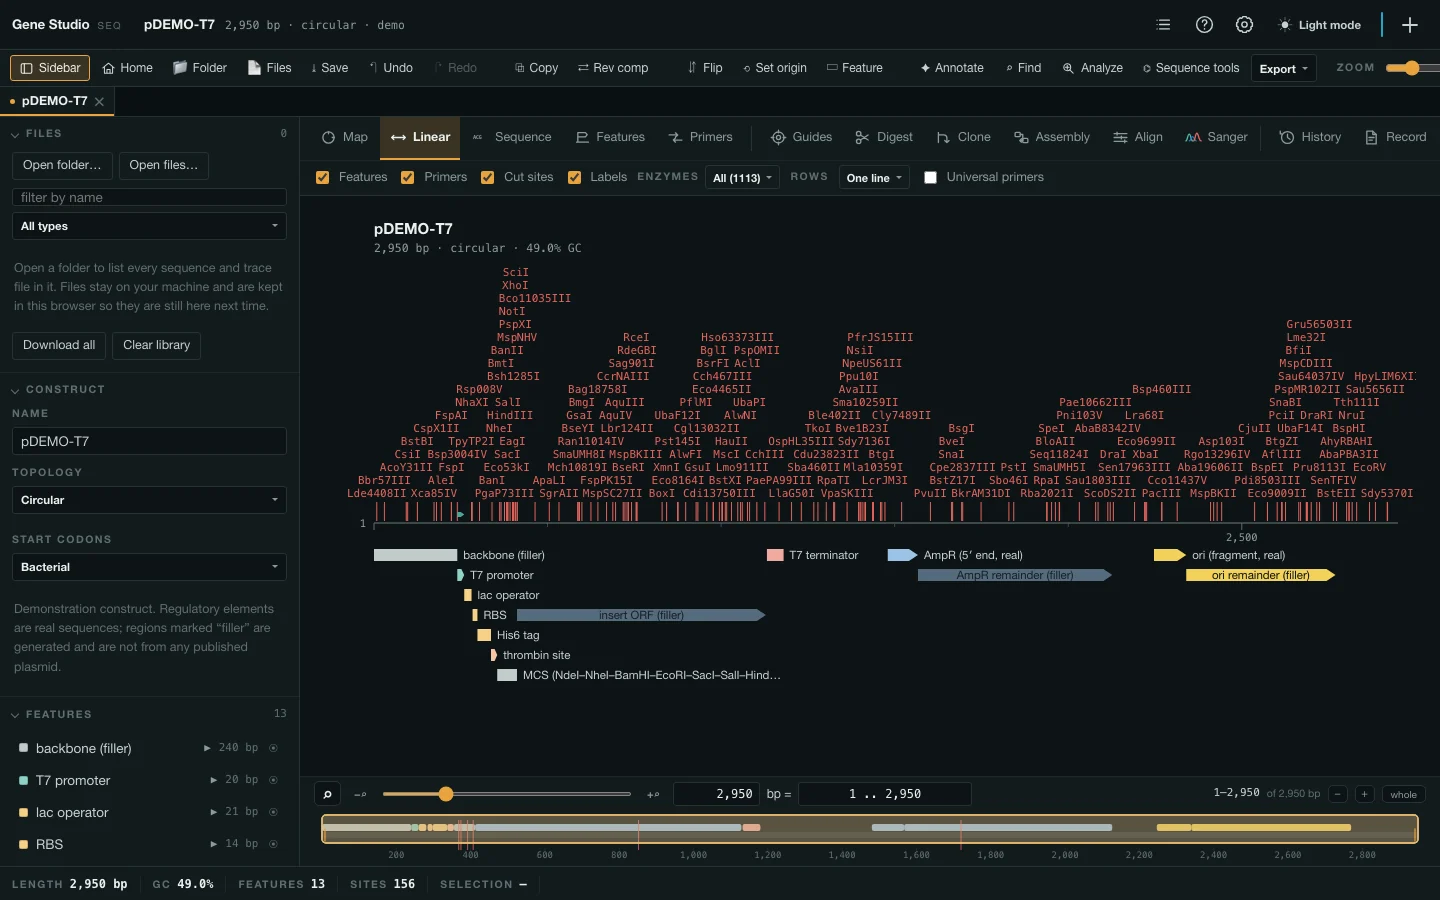
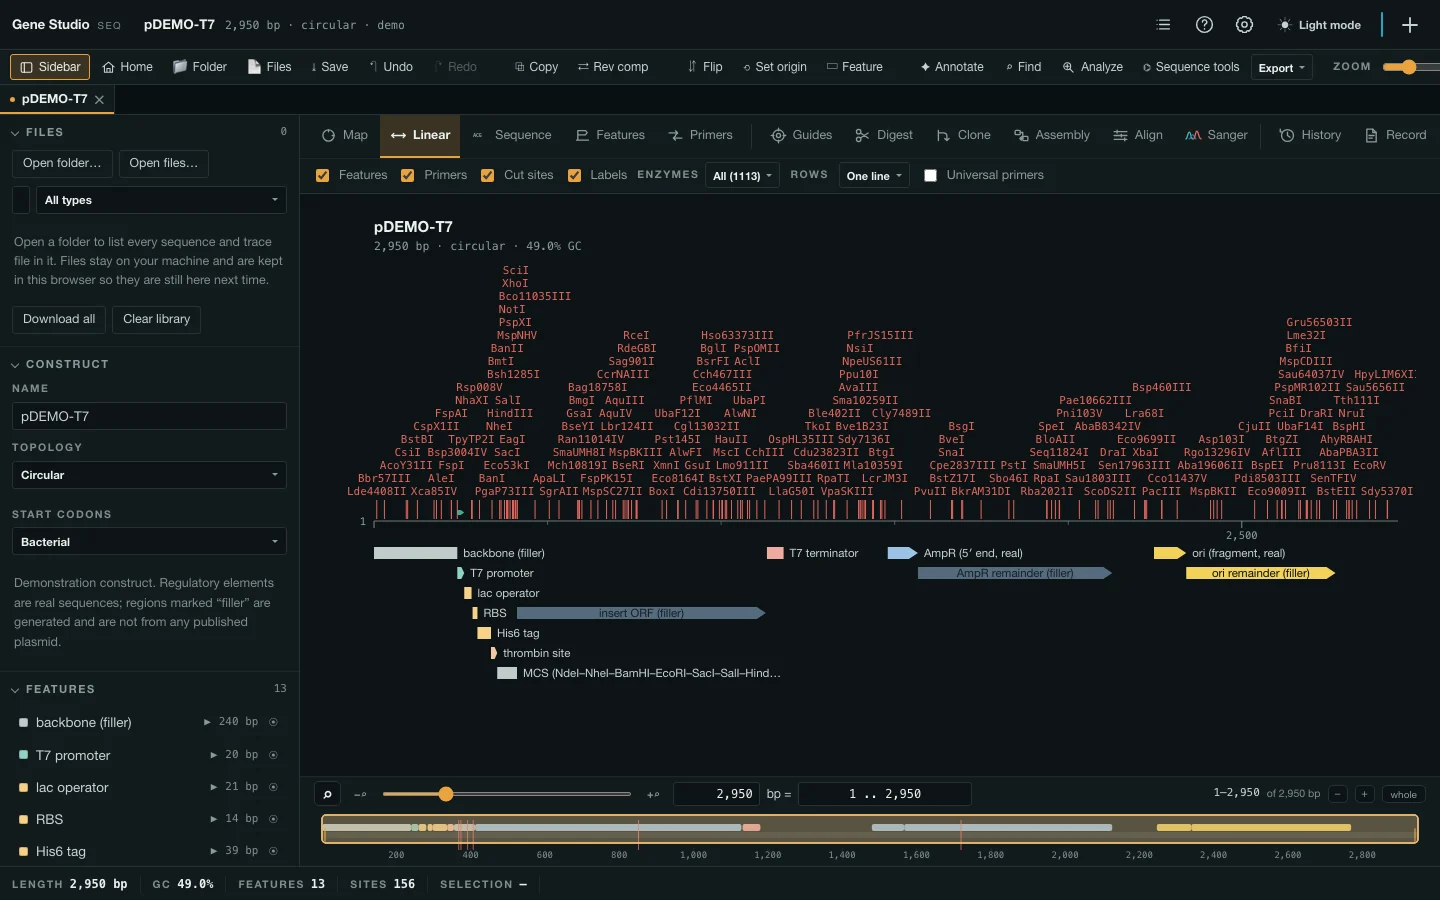
The landing page

diff --git a/docs/index.html b/docs/index.html
@@ -92,56 +92,97 @@ html.js .rise.in{opacity:1; transform:none}
 
 /* ── the strip along the top ─────────────────────────────────────────────── */
 header.rail{
-  position:sticky; top:0; z-index:40;
-  background:rgba(13,19,21,.74); backdrop-filter:blur(14px) saturate(1.4);
-  border-bottom:1px solid var(--hair);
+  /* **A bar across the top is chrome; a capsule floating on the picture is
+     part of it.** The first screen is now one field of colour, and a full-width
+     rule across it cuts that field in half before anybody has read the
+     headline. The capsule sits *on* the hero and carries the same blur, so the
+     colour runs behind it. */
+  position:fixed; top:14px; left:0; right:0; z-index:40;
+  background:none; border:0;
 }
-.rail .wrap{display:flex; align-items:center; gap:18px; height:58px}
+.rail .wrap{display:flex; align-items:center; gap:6px;
+  width:max-content; max-width:calc(100% - 24px); margin:0 auto; padding:7px 8px 7px 17px;
+  background:rgba(9,14,16,.66); backdrop-filter:blur(18px) saturate(1.5);
+  border:1px solid rgba(255,255,255,.09); border-radius:999px;
+  box-shadow:0 12px 34px rgba(0,0,0,.42);}
 .brand{display:flex; align-items:center; gap:9px; font-weight:650; color:var(--ink); text-decoration:none; letter-spacing:-.01em}
 .brand svg{flex:none}
 .brand .tag{font:500 10px/1 var(--mono); color:var(--faint); letter-spacing:.14em; padding-top:2px}
-.rail nav{margin-left:auto; display:flex; align-items:center; gap:2px}
-.rail nav a{font-size:14px; color:var(--slate); text-decoration:none; padding:7px 11px; border-radius:8px; white-space:nowrap}
-.rail nav a:hover{color:var(--ink); background:var(--hair)}
-.rail nav a.get{color:var(--ink); border:1px solid var(--line); margin-left:8px}
-.rail nav a.get:hover{border-color:var(--amber); background:transparent}
+.rail nav{margin-left:14px; display:flex; align-items:center; gap:2px}
+.rail nav a{font-size:14px; color:var(--slate); text-decoration:none; padding:8px 12px; border-radius:999px; white-space:nowrap}
+.rail nav a:hover{color:var(--ink); background:rgba(255,255,255,.07)}
+/* the one thing to press, filled rather than outlined, inside the capsule */
+.rail nav a.get{color:var(--amber-ink); background:var(--amber); border:0; margin-left:6px; font-weight:600}
+.rail nav a.get:hover{background:#f0b055; color:var(--amber-ink)}
 @media (max-width:760px){ .rail nav a.hide-s{display:none} }
 
 /* ── hero ────────────────────────────────────────────────────────────────── */
-.hero{position:relative; padding:clamp(52px,9vw,112px) 0 0; overflow:hidden}
+/* **The first screen is one field, and the words stand in the middle of it.**
+   It was a left column of type on the page's own flat ground with the product
+   nowhere in sight — measured, no pixel of the first screen differed from the
+   page fill until the light was moved onto the hero, and even then it was a
+   wash rather than a picture. The hero is a full screen of colour now, the
+   words are centred in it, and the app rises into the bottom of it.
+
+   The colour is the application's own and not a photograph: the ring's steel
+   blue, its amber and its cyan, laid as one dusk. A stock landscape would look
+   like any other product; this looks like the thing being downloaded, and it
+   costs no asset, which keeps the page one file. */
+.hero{position:relative; overflow:hidden; text-align:center;
+  padding:clamp(100px,12vh,138px) 0 0;}
 .hero::before{
-  /* **`inset:-40%` put the light above the hero.** The block is over 900 px
-     tall, so −40% lifts the whole 760 px pane clear of the headline it was lit
-     for and the top of the page rendered dead flat — measured, no pixel in the
-     first screen differed from the page's own fill. It sits on the hero now,
-     and the amber is centred on the *left* column where the words are rather
-     than at 50% of a two-column block whose right half is empty. */
-  content:''; position:absolute; inset:0 0 auto 0; height:900px; pointer-events:none;
+  content:''; position:absolute; inset:0; pointer-events:none;
   background:
-    radial-gradient(46% 40% at 26% 30%, rgba(232,163,61,.14), transparent 72%),
-    radial-gradient(44% 38% at 78% 16%, rgba(79,183,158,.11), transparent 74%);
+    radial-gradient(62% 52% at 50% 2%,  rgba(146,178,220,.46), transparent 68%),
+    radial-gradient(42% 38% at 12% 26%, rgba(232,163,61,.30),  transparent 70%),
+    radial-gradient(46% 40% at 88% 20%, rgba(79,183,158,.28),  transparent 72%),
+    radial-gradient(84% 56% at 50% 82%, rgba(46,74,102,.42),   transparent 78%),
+    linear-gradient(180deg, #1B2A34 0%, #14212A 38%, #0D171D 70%, var(--paper) 100%);
+}
+/* a vignette so the centred type is read on a settled ground rather than on
+   whichever gradient happens to be under that line */
+.hero::after{
+  content:''; position:absolute; inset:0; pointer-events:none;
+  background:radial-gradient(66% 46% at 50% 30%, rgba(6,10,12,.26), rgba(6,10,12,0) 72%);
 }
 .hero .wrap{position:relative}
 /* the name, set to be read as the name — heavier than the headline's weight
    at a fraction of its size, so it reads as a mark rather than as a first line
    of the sentence under it */
+/* **The name stays above the fold.** The capsule carries it too, at 15 px of
+   chrome — which is exactly the reading that put this here in the first place,
+   so it is kept and made the mark over the sentence rather than a line of it. */
 .wordmark{
-  margin:0 0 10px; font:700 clamp(26px,3.4vw,38px)/1 var(--ui);
-  letter-spacing:-.03em; color:var(--ink);
+  margin:0 0 14px; font:650 clamp(19px,2.2vw,23px)/1 var(--ui);
+  letter-spacing:-.01em; color:var(--slate);
 }
 .wordmark::after{
   content:''; display:inline-block; width:9px; height:9px; margin-left:9px;
   border-radius:50%; background:var(--amber); vertical-align:.06em;
 }
-.eyebrow{font:500 11.5px/1 var(--mono); letter-spacing:.16em; text-transform:uppercase; color:var(--amber); margin:0 0 20px}
-h1{font-size:clamp(36px,6.2vw,66px); font-weight:660; max-width:19ch}
-.sub{margin:22px 0 0; max-width:60ch; font-size:clamp(17px,2vw,20px)}
-.chips{display:flex; flex-wrap:wrap; gap:7px; margin:26px 0 0; padding:0; list-style:none}
+/* the eyebrow is a chip on the field rather than a line of small capitals —
+   it has to sit on colour now, and a bare tracked line dissolves into it */
+.eyebrow{display:inline-block; margin:0 0 22px; padding:7px 14px; border-radius:999px;
+  font:500 11.5px/1 var(--mono); letter-spacing:.14em; text-transform:uppercase;
+  color:var(--amber); background:rgba(232,163,61,.13);
+  border:1px solid rgba(232,163,61,.28)}
+/* Lighter and tighter than a left column's headline: centred display type is
+   read as a shape before it is read as words, and 660 at 66 px is a wall. */
+h1{font-size:clamp(34px,5.1vw,58px); font-weight:600; letter-spacing:-.03em;
+   line-height:1.06; max-width:24ch; margin-inline:auto; text-wrap:balance}
+/* **Two lines, and the rest of the sentence is the page.** The hero carried the
+   whole description — six lines centred, which is a paragraph standing where a
+   promise goes, and every one of its clauses has its own section below. */
+.sub{margin:22px auto 0; max-width:52ch; font-size:clamp(16.5px,1.75vw,19px);
+     text-wrap:balance}
+.chips{display:flex; flex-wrap:wrap; gap:7px; margin:20px 0 0; padding:0; list-style:none;
+       justify-content:center}
 .chips li{
   font:500 12px/1 var(--mono); color:var(--slate);
   border:1px solid var(--hair); border-radius:7px; padding:7px 9px; background:var(--ground);
 }
-.cta{display:flex; flex-wrap:wrap; gap:12px; align-items:center; margin:28px 0 0}
+.cta{display:flex; flex-wrap:wrap; gap:12px; align-items:center; margin:30px 0 0;
+     justify-content:center}
 .btn{
   display:inline-flex; align-items:center; gap:9px; text-decoration:none;
   font:550 15px/1 var(--ui); padding:13px 20px; border-radius:11px;
@@ -149,6 +190,12 @@ h1{font-size:clamp(36px,6.2vw,66px); font-weight:660; max-width:19ch}
   transition:transform .12s ease, border-color .12s ease, background .12s ease;
 }
 .btn:hover{transform:translateY(-1px); border-color:var(--slate)}
+.hero .btn{border-radius:999px; padding:14px 24px}
+.hero .btn.primary{box-shadow:0 10px 30px rgba(232,163,61,.22)}
+/* the platform this reader is not on is a choice, not a second call to action */
+.hero .cta .btn:not(.primary){background:rgba(255,255,255,.06); border-color:rgba(255,255,255,.14);
+  font-weight:500; padding:14px 20px}
+.hero .cta .btn:not(.primary):hover{background:rgba(255,255,255,.1); border-color:rgba(255,255,255,.24)}
 .btn.primary{background:var(--amber); color:var(--amber-ink); border-color:var(--amber)}
 .btn.primary:hover{background:#f0b055}
 .btn small{font:400 12px/1 var(--mono); opacity:.75}
@@ -164,7 +211,7 @@ h1{font-size:clamp(36px,6.2vw,66px); font-weight:660; max-width:19ch}
   .btn small{grid-column:2; opacity:.8}
   .mail{width:100%; justify-content:center}
 }
-.verline{margin:16px 0 0; font:400 13.5px/1.6 var(--ui); color:var(--faint); max-width:56ch}
+.verline{margin:16px auto 0; font:400 13.5px/1.6 var(--ui); color:var(--faint); max-width:52ch}
 .verline b{color:var(--slate); font-weight:600}
 
 /* the screenshot, framed as a window */
@@ -173,13 +220,41 @@ h1{font-size:clamp(36px,6.2vw,66px); font-weight:660; max-width:19ch}
    emphasis, and it put the drawing's edges out of line with every section
    below — which is the one thing a column of sections has to get right. One
    width for the whole page, and it is --wide. */
-.shot{margin:clamp(36px,6vw,68px) auto 0; max-width:var(--wide); padding:0 var(--pad)}
-figure{margin:0}
-.frame{
-  border:1px solid var(--line); border-radius:14px; overflow:hidden; background:var(--sunk);
-  box-shadow:0 30px 80px rgba(0,0,0,.5), 0 2px 0 rgba(255,255,255,.03) inset;
+/* **The product rises into the picture rather than starting under it.** The
+   figure used to begin below the hero, so the first screen was words and the
+   thing itself was a scroll away. It overlaps the field now and the field runs
+   out behind it. */
+.shot{margin:clamp(44px,7vw,84px) auto 0; max-width:var(--wide); padding:0 var(--pad)}
+/* the window follows the promise rather than sitting a screen below it */
+.hero .shot{position:relative; z-index:1; margin-top:clamp(26px,3.4vw,46px);
+  padding-bottom:clamp(40px,6vw,86px)}
+.hero .shot .frame{
+  border-radius:clamp(16px,1.8vw,26px);
+  box-shadow:
+    0 0 0 1px rgba(255,255,255,.11),
+    0 2px 4px rgba(0,0,0,.5),
+    0 30px 60px rgba(0,0,0,.45),
+    0 80px 170px rgba(0,0,0,.55),
+    0 1px 0 rgba(255,255,255,.08) inset;
 }
-.frame .bar{display:flex; align-items:center; gap:7px; padding:10px 14px; border-bottom:1px solid var(--hair); background:var(--ground)}
+figure{margin:0}
+/* **A window on a field, not a bordered box on a page.** A hairline rectangle
+   reads as a figure in a document; what the first screen wants is the thing
+   itself sitting in the light — so the corner is a window's corner, the border
+   becomes an inner ring that catches the light rather than a line drawn round
+   the outside, and the shadow is three layers: a contact edge, a lift, and a
+   wide ambient that puts the block *in* the field rather than on top of it. */
+.frame{
+  border:0; border-radius:clamp(14px,1.4vw,20px); overflow:hidden; background:var(--sunk);
+  box-shadow:
+    0 0 0 1px rgba(255,255,255,.09),
+    0 1px 2px rgba(0,0,0,.5),
+    0 18px 40px rgba(0,0,0,.42),
+    0 54px 120px rgba(0,0,0,.5),
+    0 1px 0 rgba(255,255,255,.06) inset;
+}
+.frame .bar{display:flex; align-items:center; gap:7px; padding:11px 15px;
+  border-bottom:1px solid rgba(255,255,255,.06); background:var(--ground)}
 .frame .bar i{width:10px; height:10px; border-radius:50%; background:var(--line); display:block}
 .frame .bar span{margin-left:8px; font:400 11.5px/1 var(--mono); color:var(--faint); white-space:nowrap; overflow:hidden; text-overflow:ellipsis}
 figcaption{margin:14px 2px 0; font:400 13px/1.5 var(--mono); color:var(--faint)}
@@ -436,8 +511,14 @@ section.plain h2{font-size:clamp(26px,3.4vw,36px); margin-top:14px}
 .cmp .cm svg.cross{stroke:var(--cut)}
 .cmp .cm span{display:block; font-size:13px; line-height:1.5; color:var(--slate)}
 .cmp .us span{color:var(--ink)}
+/* **`--faint` is solved for the page, and on a phone this sits on the plate.**
+   The comparison becomes a stack of cards there, and measured at 390 px in the
+   dark theme "not stated" read **3.97** against the 4.5 it needs — the only two
+   readings on the whole page that were short, and they had been for a while.
+   `--slate` is the next step up and is already solved for these surfaces; it is
+   still the quietest thing in its own cell. */
 .cmp .cm .nostate{font-style:normal; font:500 11px/1 var(--mono);
-  letter-spacing:.08em; text-transform:uppercase; color:var(--faint)}
+  letter-spacing:.08em; text-transform:uppercase; color:var(--slate)}
 /* the lit column's own mark, so the eye lands there first */
 .cmp .us svg.tick{stroke:var(--amber)}
 /* the column this page is about is the one that is lit */
@@ -617,12 +698,30 @@ footer{border-top:1px solid var(--hair); padding:44px 0 60px; background:var(--p
      links read 3.35:1, the BETA tag 3.19, and the Get it button's outline
      vanished at 1.08. At .95 the composite is rgb(235,237,237): 4.89, 4.65, and
      the outline is back. .93 was tried and leaves the tag at 4.46. */
-  header.rail{ background:rgba(247,249,249,.95) }
+  /* **The capsule is a surface now, so the translucency moved with it.** This
+     rule used to paint `header.rail`, which is the full-width band the capsule
+     replaced — left there it would have painted nothing and the dark capsule
+     would have kept its dark ground under this theme's dark links. The .95 and
+     the reason for it are unchanged; only what it is painted on. */
+  .rail .wrap{ background:rgba(247,249,249,.95); border-color:#C3D0D1;
+               box-shadow:0 12px 30px rgba(20,40,50,.14) }
+  .rail nav a:hover{ background:rgba(14,22,24,.06) }
+  /* the field, in a theme where the page is lighter than the application: the
+     same three lights, laid on the page's own paper rather than on a dusk */
   .hero::before{
     background:
-      radial-gradient(58% 46% at 50% 34%, rgba(232,163,61,.20), transparent 70%),
-      radial-gradient(40% 34% at 76% 12%, rgba(15,125,104,.07), transparent 72%);
+      radial-gradient(60% 48% at 50% 4%,  rgba(120,152,196,.26), transparent 70%),
+      radial-gradient(42% 36% at 12% 26%, rgba(232,163,61,.26),  transparent 70%),
+      radial-gradient(44% 38% at 88% 20%, rgba(15,125,104,.14),  transparent 72%),
+      linear-gradient(180deg, #E9EFF2 0%, #EFF4F5 46%, var(--paper) 100%);
   }
+  /* a vignette darkens a light field into a smudge; the type is dark here and
+     needs no help being read */
+  .hero::after{ background:none }
+  /* white-on-white: the quiet buttons need the page's own line and ground */
+  .hero .cta .btn:not(.primary){ background:var(--ground); border-color:var(--line) }
+  .hero .cta .btn:not(.primary):hover{ background:var(--ground); border-color:var(--slate) }
+  .hero .btn.primary{ box-shadow:0 10px 28px rgba(151,89,10,.20) }
   /* the dark card-on-plate step above is a dark-theme repair; on light the
      plate is *below* the page and a white card already lifts off it */
   /* the light plate is *below* the page, so its text has to go the other way:
@@ -701,11 +800,7 @@ footer{border-top:1px solid var(--hair); padding:44px 0 60px; background:var(--p
          leads and the sentence follows it. -->
     <p class="wordmark">Gene Studio</p>
     <h1>The plasmid you are holding, drawn from the file you already have.</h1>
-    <p class="sub">Circular and linear maps, an annotated sequence, restriction digests with a simulated gel, PCR and cloning, CRISPR guides and Sanger review — over GenBank, SnapGene <code>.dna</code>, FASTA and <code>.ab1</code>, written back without losing what was in them.</p>
-    <ul class="chips">
-      <li>.gb</li><li>.gbk</li><li>.gbff</li><li>.dna</li><li>.fa / .fasta / .fna / .faa</li><li>.ab1</li>
-    </ul>
-
+    <p class="sub">Maps, sequence, digests, cloning, guides and Sanger review — over the files you already have, written back without losing what was in them.</p>
     <div class="cta">
       <a class="btn primary" data-dl="mac" href="https://github.com/JAEYOONSUNG/GeneStudio-releases/releases/latest">
         <svg width="16" height="16" viewBox="0 0 16 16" fill="currentColor" aria-hidden="true"><path d="M10.8 8.5c0-1.5 1.2-2.2 1.3-2.3-.7-1-1.8-1.2-2.2-1.2-.9-.1-1.8.6-2.3.6-.5 0-1.2-.6-2-.5-1 0-2 .6-2.5 1.5-1.1 1.9-.3 4.7.8 6.2.5.7 1.1 1.6 1.9 1.5.8 0 1.1-.5 2-.5s1.2.5 2 .5c.8 0 1.4-.7 1.9-1.5.6-.8.8-1.7.8-1.8 0 0-1.6-.6-1.7-2.5zM9.4 3.7c.4-.5.7-1.2.6-1.9-.6 0-1.4.4-1.8.9-.4.5-.7 1.2-.6 1.9.7.1 1.4-.3 1.8-.9z"/></svg>
@@ -727,6 +822,11 @@ footer{border-top:1px solid var(--hair); padding:44px 0 60px; background:var(--p
       </a>
     </div>
     <p class="verline">Free while the beta lasts. A licence is written for one computer and takes a minute — <b><a href="#get" style="color:inherit">ask for one</a></b>.</p>
+    <!-- what it opens, under the press rather than above it: it is the answer
+         to "will it read mine", which is a second question, not the first -->
+    <ul class="chips">
+      <li>.gb</li><li>.gbk</li><li>.gbff</li><li>.dna</li><li>.fa / .fasta / .fna / .faa</li><li>.ab1</li>
+    </ul>
   </div>
 
   <div class="shot">
